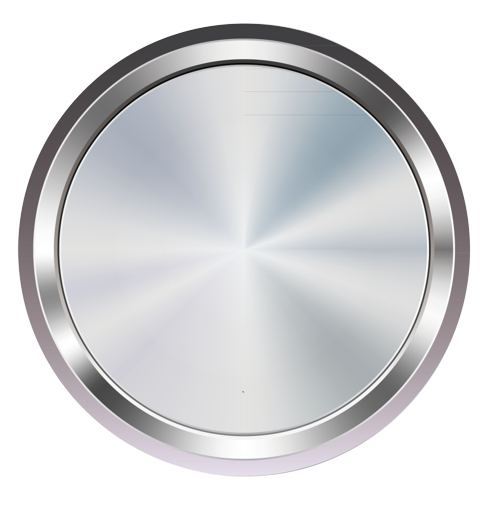
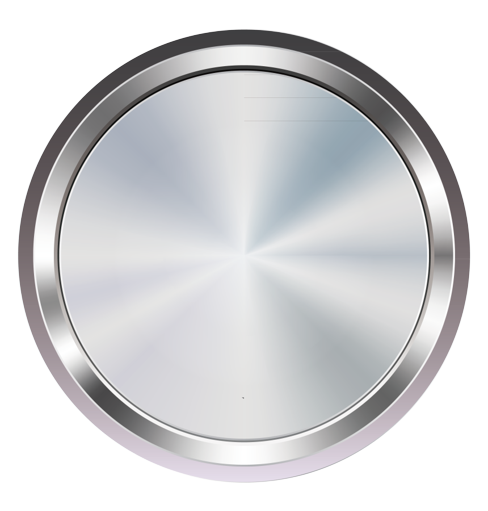
Arturchik fix

Changed region(s): [[0.0307, 0.499, 0.9836, 0.9687], [0.0307, 0.0294, 0.9836, 0.4697], [0.0922, 0.499, 0.123, 0.5284]]

diff --git a/public/index.html b/public/index.html
@@ -12,44 +12,44 @@
     ></script>
   </head>
   <body>
-    <div id="img">
-      <div id="thread_top"></div>
-      <div id="thread_left"></div>
-      <div id="thread_right"></div>
-      
-      <div class="cargo" id="cargo_red"></div>
-      <div class="cargo" id="cargo_blue"></div>
-      <div id="stand"></div>
-      <div id="base"></div>
-      <div id="ruler"></div>
-      <div id="wheel"></div>
+      <div id="img">  
+        <div id="thread_top"></div>
+        <div id="thread_left"></div>
+        <div id="thread_right"></div>
+        
+        <div class="cargo" id="cargo_red"></div>
+        <div class="cargo" id="cargo_blue"></div>
+        <div id="stand"></div>
+        <div id="base"></div>
+        <div id="ruler"></div>
+        <div id="wheel"></div>
 
-      <!-- Заводим все объекты + скрипт -->
-      
-      <div class="stopwatch" id="my-stopwatch"></div>
-      
-      <button class="button" id="button_start">СТАРТ</button>
-      
-      <!-- ПРИ НАЖАТИИ НА КНОПКУ START ЗАПУСКАЕТСЯ ФУНКЦИЯ move() В script.js-->
-      <button class="button" id="button_reset">СБРОС</button>
-      <!-- ПРИ НАЖАТИИ НА КНОПКУ RESET ЗАПУСКАЕТСЯ ФУНКЦИЯ reset() В script.js-->
-      <button class="button" id="button_weight_1">ГРУЗ 1</button>
-      <button class="button" id="button_weight_2">ГРУЗ 2</button>
-      <button class="button" id="button_weight_3">ГРУЗ 3</button>
-      <button class="button" id="button_weight_4">ГРУЗ 4</button>
-      <div class="weight" id="weight_1"></div>
-      <div class="weight" id="weight_2"></div>
-      <div class="weight" id="weight_3"></div>
-      <div class="weight" id="weight_4"></div>
-      <div id="photosensor"></div>
-      <div id="sensor-line"></div>
-      <div id="info_stand">
-           <div>m1 = m2 = 81.1 г</div>
-           <div>Δm1 = 1.4 г</div>
-           <div>Δm2 = 2.8 г</div>
-           <div>Δm3 = 2.1 г</div>
-           <div>Δm4 = 4.3 г</div>
-      </div>
+        <!-- Заводим все объекты + скрипт -->
+        
+        <div class="stopwatch" id="my-stopwatch"></div>
+        
+        <button class="button" id="button_start">СТАРТ</button>
+        
+        <!-- ПРИ НАЖАТИИ НА КНОПКУ START ЗАПУСКАЕТСЯ ФУНКЦИЯ move() В script.js-->
+        <button class="button" id="button_reset">СБРОС</button>
+        <!-- ПРИ НАЖАТИИ НА КНОПКУ RESET ЗАПУСКАЕТСЯ ФУНКЦИЯ reset() В script.js-->
+        <button class="button" id="button_weight_1">ГРУЗ 1</button>
+        <button class="button" id="button_weight_2">ГРУЗ 2</button>
+        <button class="button" id="button_weight_3">ГРУЗ 3</button>
+        <button class="button" id="button_weight_4">ГРУЗ 4</button>
+        <div class="weight" id="weight_1"></div>
+        <div class="weight" id="weight_2"></div>
+        <div class="weight" id="weight_3"></div>
+        <div class="weight" id="weight_4"></div>
+        <div id="photosensor"></div>
+        <div id="sensor-line"></div>
+        <div id="info_stand">
+            <div>m1 = m2 = 81.1 г</div>
+            <div>Δm1 = 1.4 г</div>
+            <div>Δm2 = 2.8 г</div>
+            <div>Δm3 = 2.1 г</div>
+            <div>Δm4 = 4.3 г</div>
+        </div>
 <!--        <div id="wheel_ruler"></div>-->
 
     </div>

diff --git a/public/src/reset.css b/public/src/reset.css
@@ -1,0 +1,41 @@
+*{
+    padding: 0;
+    margin: 0;
+    border: 0;
+}
+
+*,*:before, *:after{
+	-moz-box-sizing: border-box;
+	-webkit-box-sizing: border-box;
+	box-sizing: border-box;
+}
+
+:focus, :active{outline: none;}
+a:focus, a:active{outline: none;}
+
+nav, footer, header, aside{display: block;}
+
+html, body{
+height:100%;
+width:100%;
+font-size 100%;
+line-height: 1;
+font-size:14px;
+-ms-text-size-adjust: 100%;
+-moz-text-size-adjust: 100%;
+-webkit-text-size-adjust: 100%;
+}
+
+input, button, textarea{font-family: inherit;
+} 
+
+input::-ms-clear{display: none;}
+button{cursor: pointer;} 
+button::-moz-focus-inner{padding: 0; border:0;} 
+a, a:visited{text-decoration: none; color: black;}
+a:hover{text-decoration: none;}
+ul li{list-style: none;} 
+img{vertical-align: top;}
+
+
+h1,h2,h3,h4,h5,h6{font-size: inherit; font-weight: 400;}

diff --git a/public/src/adaptive.css b/public/src/adaptive.css
@@ -1,0 +1,35 @@
+@media only screen and (max-width: 1200px) {
+
+    .header {
+        background-color: #E2ADF2;
+        width: 800px;
+    }
+
+    .service {
+        background-color: #ff585d;
+        width: 190px;
+    }
+
+    .proj {
+        width: 290px;
+        background-color: #ffb549
+    }
+}
+
+@media only screen and (max-width: 800px) {
+
+    .header {
+        background-color: #E2ADF2;
+        width: 600px;
+    }
+
+    .service {
+        background-color: #ff585d;
+        width: 100px;
+    }
+
+    .proj {
+        width: 150px;
+        background-color: #ffb549
+    }
+}

diff --git a/public/src/style.css b/public/src/style.css
@@ -45,7 +45,7 @@ body {
 #wheel {
   /* Шестеренка */
   position: absolute;
-  background-image: url(circle-removebg-preview.png);
+  background-image: url(circle_fully_fixed.png);
   background-size:cover;
   top:-2px;
   border-radius: 50%;
